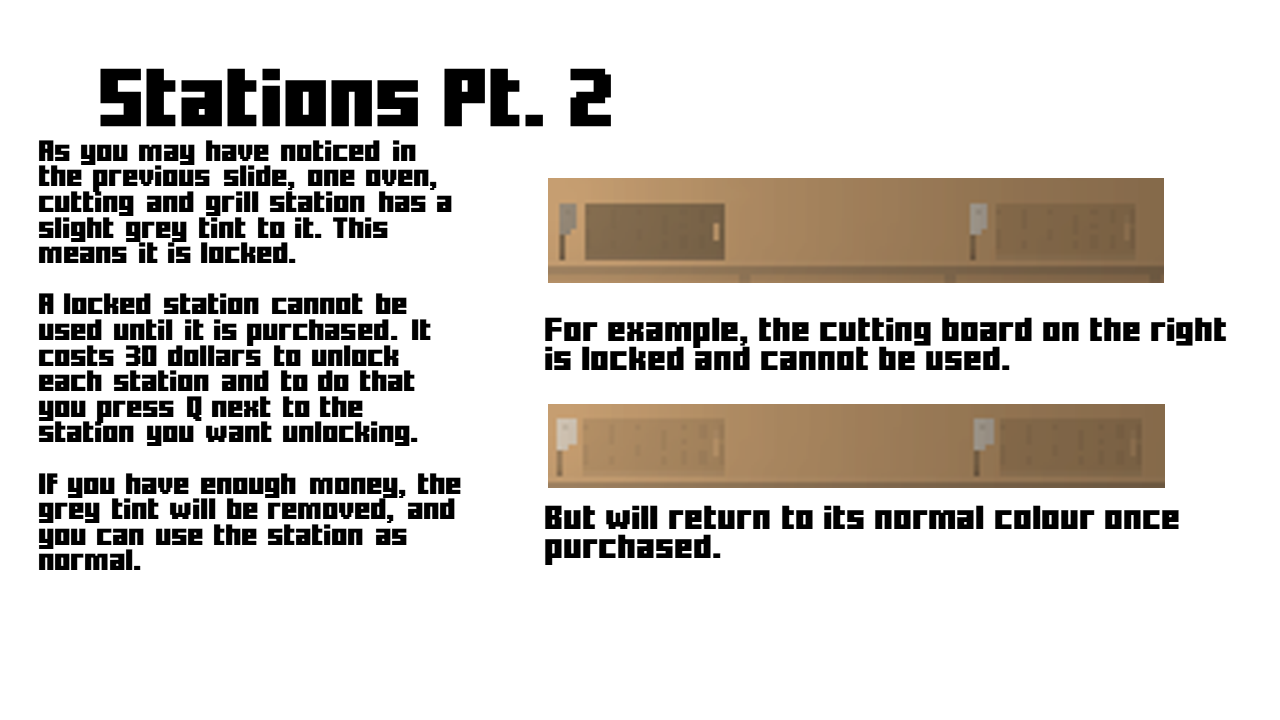
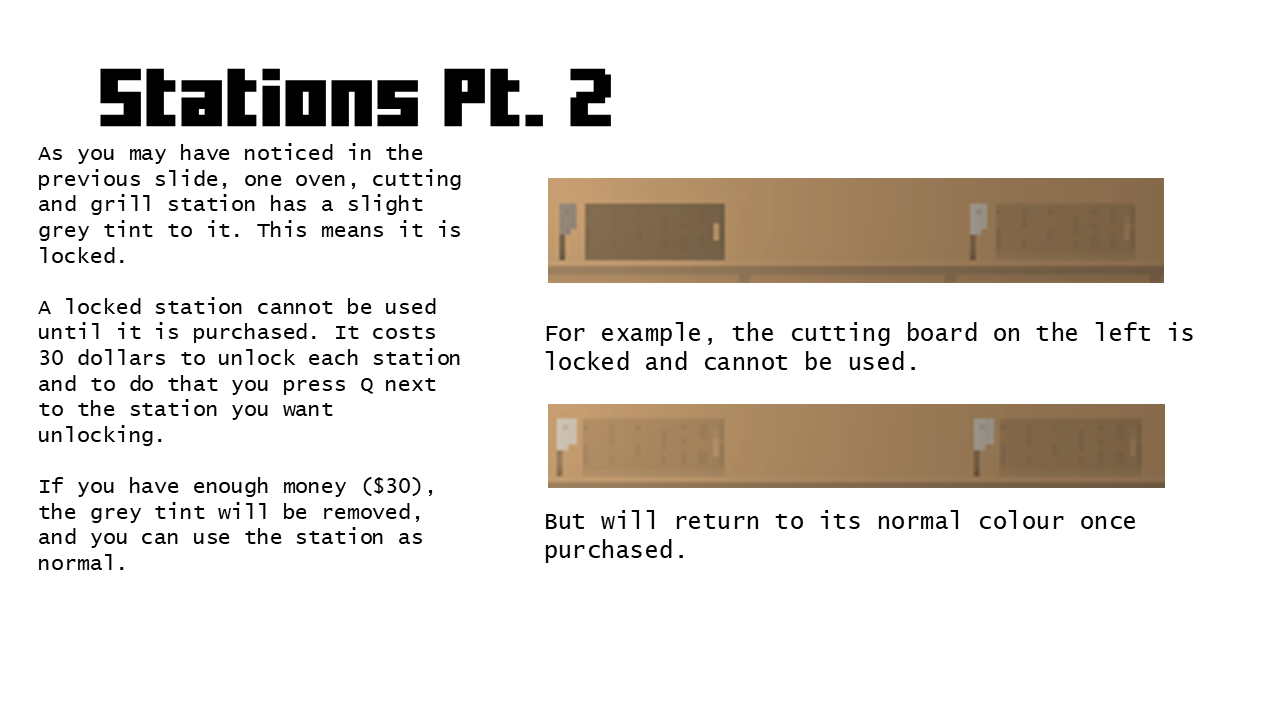
Updated tutorials

diff --git a/core/src/com/devcharles/piazzapanic/scene2d/Hud.java b/core/src/com/devcharles/piazzapanic/scene2d/Hud.java
@@ -59,6 +59,7 @@ public class Hud extends ApplicationAdapter {
   Label pausedNameLabel;
   TextButton exitButton, shopButton, pauseButton;
   final TextButton movementSpeedBtn, prepSpeedBtn, chopSpeedBtn, customerPatienceBtn, salePriceBtn, newCookBtn;
+  TextButton tutorialButton;
   BitmapFont uiFont, uiTitleFont;
   // an image used as the background of recipe book and tutorial
   private Image photo;
@@ -277,7 +278,7 @@ public class Hud extends ApplicationAdapter {
     // checks if resume button is clicked
     TextButton resumeButton = new TextButton("Resume", game.skin);
     TextButton recipeBookButton = new TextButton("Recipe Book", game.skin);
-    TextButton tutorialButton = new TextButton("Tutorial", game.skin);
+    tutorialButton = new TextButton("Tutorial", game.skin);
     exitButton = new TextButton("Exit", game.skin);
 
     resumeButton.addListener(new ClickListener() {
@@ -287,8 +288,6 @@ public class Hud extends ApplicationAdapter {
     });
     recipeBookButton.addListener(
         createListener(new Slideshow(game, Slideshow.Type.recipe, gameScreen)));
-    tutorialButton.addListener(
-        createListener(new Slideshow(game, Slideshow.Type.tutorial, gameScreen)));
     exitButton.addListener(new ClickListener() {
       public void clicked(InputEvent event, float x, float y) {
         game.setScreen(new MainMenuScreen(game));
@@ -721,19 +720,29 @@ public class Hud extends ApplicationAdapter {
     moneyLabel.setVisible(isEndless);
     shopButton.setVisible(isEndless);
 
-    TextButton saveButton = new TextButton("Save and Exit", game.skin);
-    saveButton.addListener(new ClickListener() {
-      @Override
-      public void clicked(InputEvent event, float x, float y) {
-        if (isEndless) {
-          saveGame();
+    if (isEndless) {
+      TextButton saveButton = new TextButton("Save and Exit", game.skin);
+      saveButton.addListener(new ClickListener() {
+        @Override
+        public void clicked(InputEvent event, float x, float y) {
+          if (isEndless) {
+            saveGame();
+          }
+          Gdx.app.log("save", "Game is saved!");
+          game.setScreen(new MainMenuScreen(game));
+          dispose();
+          gameScreen.dispose();
         }
-        Gdx.app.log("save", "Game is saved!");
-        game.setScreen(new MainMenuScreen(game));
-        dispose();
-        gameScreen.dispose();
-      }
-    });
-    tablePause.add(saveButton).width(260).height(70);
+      });
+      tablePause.add(saveButton).width(260).height(70);
+    }
+
+  if (isEndless) {
+      tutorialButton.addListener(
+          createListener(new Slideshow(game, Slideshow.Type.endlessTutorial, gameScreen)));
+    } else {
+      tutorialButton.addListener(
+          createListener(new Slideshow(game, Slideshow.Type.scenarioTutorial, gameScreen)));
+    }
   }
 }

diff --git a/core/src/com/devcharles/piazzapanic/MainMenuScreen.java b/core/src/com/devcharles/piazzapanic/MainMenuScreen.java
@@ -21,6 +21,7 @@ import com.badlogic.gdx.scenes.scene2d.utils.ChangeListener;
 import com.badlogic.gdx.scenes.scene2d.utils.ClickListener;
 import com.badlogic.gdx.utils.viewport.ScreenViewport;
 import com.devcharles.piazzapanic.scene2d.Slideshow;
+import com.devcharles.piazzapanic.scene2d.Slideshow.Type;
 import com.devcharles.piazzapanic.utility.Difficulty;
 import com.devcharles.piazzapanic.utility.Difficulty.Level;
 import com.devcharles.piazzapanic.utility.saving.GameState;
@@ -79,7 +80,7 @@ public class MainMenuScreen extends ApplicationAdapter implements Screen {
     startScenarioButton.addListener(new ClickListener() {
       @Override
       public void clicked(InputEvent event, float x, float y) {
-        game.setScreen(new Slideshow(game, Slideshow.Type.tutorial,
+        game.setScreen(new Slideshow(game, Type.scenarioTutorial,
             new ScenarioGameScreen(game, null, (int) customerSlider.getValue())));
         dispose();
       }
@@ -177,7 +178,7 @@ public class MainMenuScreen extends ApplicationAdapter implements Screen {
         if (!Gdx.files.local(GameState.SAVE_LOCATION).exists()) {
           return;
         }
-        game.setScreen(new Slideshow(game, Slideshow.Type.tutorial,
+        game.setScreen(new Slideshow(game, Type.endlessTutorial,
             new EndlessGameScreen(game, "v2/endlessMap.tmx", true, null)));
         dispose();
       }
@@ -203,7 +204,7 @@ public class MainMenuScreen extends ApplicationAdapter implements Screen {
   }
 
   public void startEndless(Difficulty.Level difficultyLevel) {
-    game.setScreen(new Slideshow(game, Slideshow.Type.tutorial,
+    game.setScreen(new Slideshow(game, Type.endlessTutorial,
         new EndlessGameScreen(game, "v2/endlessMap.tmx", false,
             Difficulty.createDifficulty(difficultyLevel))));
     dispose();

diff --git a/core/src/com/devcharles/piazzapanic/scene2d/Slideshow.java b/core/src/com/devcharles/piazzapanic/scene2d/Slideshow.java
@@ -38,7 +38,8 @@ public class Slideshow extends ApplicationAdapter implements Screen {
    */
   public enum Type {
     recipe,
-    tutorial
+    endlessTutorial,
+    scenarioTutorial
   }
 
   private final Texture[] textures;
@@ -51,6 +52,8 @@ public class Slideshow extends ApplicationAdapter implements Screen {
    * Create a new slideshow screen.
    *
    * @param type {@link Type} of slideshow to create.
+   * @author Andrey Samoilov
+   * @author Alistair Foggin
    */
   private Slideshow(final PiazzaPanic game, Type type) {
 
@@ -60,17 +63,19 @@ public class Slideshow extends ApplicationAdapter implements Screen {
     viewport.apply();
     batch = new SpriteBatch();
 
-    int fileCount = 0;
+    int fileCount;
     if (type == Type.recipe) {
-      fileCount = 2;
-    } else if (type == Type.tutorial) {
-      fileCount = 11;
+      fileCount = 7;
+    } else if (type == Type.endlessTutorial) {
+      fileCount = 10;
+    } else {
+      fileCount = 8;
     }
 
     textures = new Texture[fileCount];
 
     for (int i = 0; i < fileCount; i++) {
-      textures[i] = game.assetManager.get(type.name() + i + ".png", Texture.class);
+      textures[i] = game.assetManager.get("Tutorials/" + type.name() + i + ".PNG", Texture.class);
     }
 
     stage = new Stage(viewport);

diff --git a/core/src/com/devcharles/piazzapanic/PiazzaPanic.java b/core/src/com/devcharles/piazzapanic/PiazzaPanic.java
@@ -38,11 +38,15 @@ public class PiazzaPanic extends Game {
     assetManager.load("craftacular/raw/font-export.fnt", BitmapFont.class);
     assetManager.load("craftacular/raw/font-title-export.fnt", BitmapFont.class);
 
-    for (int i = 0; i <= 10; i++) {
-      assetManager.load("tutorial" + i + ".png", Texture.class);
+    for (int i = 0; i < 10; i++) {
+      assetManager.load("Tutorials/endlessTutorial" + i + ".PNG", Texture.class);
     }
-    assetManager.load("recipe0.png", Texture.class);
-    assetManager.load("recipe1.png", Texture.class);
+    for (int i = 0; i < 8; i++) {
+      assetManager.load("Tutorials/scenarioTutorial" + i + ".PNG", Texture.class);
+    }
+    for (int i = 0; i < 7; i++) {
+      assetManager.load("Tutorials/recipe" + i + ".PNG", Texture.class);
+    }
     assetManager.finishLoading();
 
     assetManager.load("droplet.png", Texture.class);

diff --git a/core/src/com/devcharles/piazzapanic/utility/EntityFactory.java b/core/src/com/devcharles/piazzapanic/utility/EntityFactory.java
@@ -114,7 +114,6 @@ public class EntityFactory {
     TextureRegion[][] tempRegions = TextureRegion.split(tempTexture, 32, 32);
 
     texture.region = tempRegions[0][0];
-    // TODO: Set size in viewport units instead of scale
     texture.scale.set(0.1f, 0.1f);
 
     // Box2D body
@@ -176,7 +175,6 @@ public class EntityFactory {
 
     // Texture
     texture.region = getFoodTexture(foodType);
-    // TODO: Set size in viewport units instead of scale
     texture.scale.set(0.05f, 0.05f);
 
     // food creation

diff --git a/tests/src/com/devcharles/piazzapanic/utility/box2d/LightBuilderTest.java b/tests/src/com/devcharles/piazzapanic/utility/box2d/LightBuilderTest.java
@@ -31,7 +31,6 @@ public class LightBuilderTest {
     assertEquals("The light should be red.", light.getColor(), Color.RED);
     assertEquals("The light distance should be approximately 5.", light.getDistance(), 5f, 0.001f);
     assertTrue("The light should be soft.", light.isSoft());
-    // TODO: check for null RayHandler
   }
 
   @Test

diff --git a/core/src/com/devcharles/piazzapanic/ScenarioGameScreen.java b/core/src/com/devcharles/piazzapanic/ScenarioGameScreen.java
@@ -26,6 +26,7 @@ public class ScenarioGameScreen extends BaseGameScreen {
       reputationPointsAndMoney[0] = 2;
     }
 
+    hud.setEndless(false);
     engine.addSystem(new PhysicsSystem(world));
     engine.addSystem(new RenderingSystem(mapLoader.map, game.batch, camera));
     engine.addSystem(new LightingSystem(rayhandler, camera));

diff --git a/core/src/com/devcharles/piazzapanic/utility/Difficulty.java b/core/src/com/devcharles/piazzapanic/utility/Difficulty.java
@@ -42,7 +42,6 @@ public class Difficulty {
     return difficulty;
   }
 
-  // TODO: manage initial number of chefs
   public int initialCooks;
   public int maxGroupSize;
   public int customerDelay;
